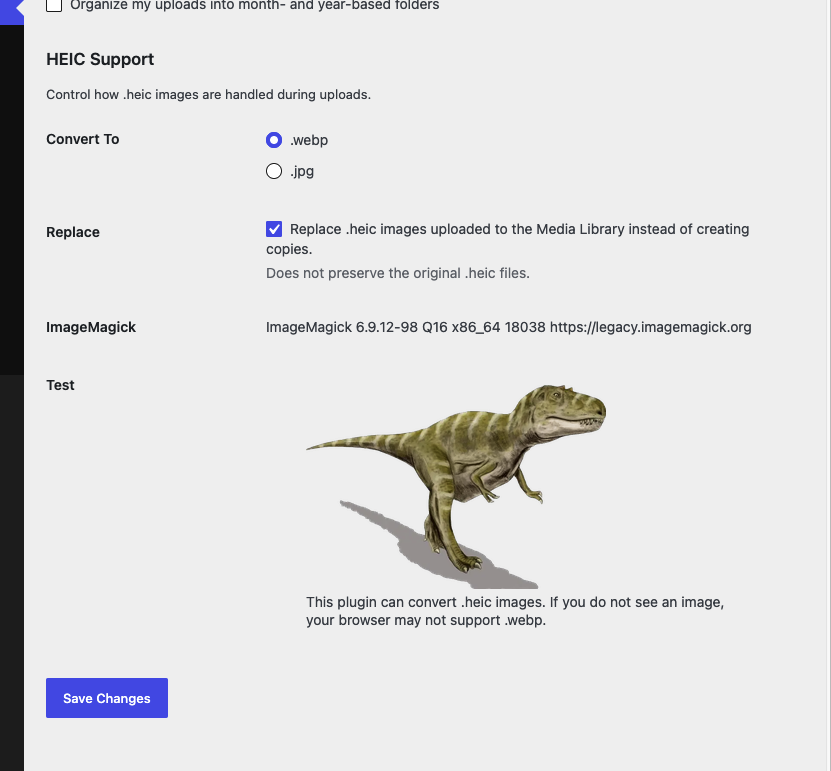
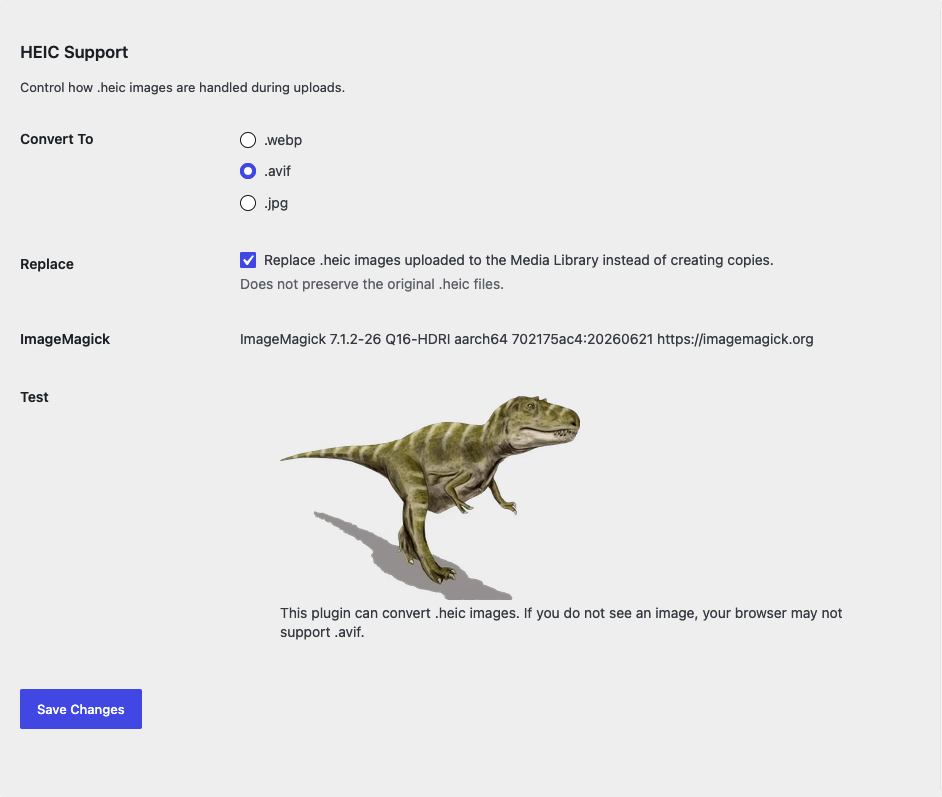
Updates screenshots

diff --git a/README.md b/README.md
@@ -27,6 +27,10 @@ The settings are located at Settings → Media → HEIC Support in the dashboard
 
 ![Screenshot-2](assets/screenshot-2.png)
 
+3. The Media Library list view filtered to HEIC / HEIF, with a row action and a bulk action to create copies.
+
+![Screenshot-3](assets/screenshot-3.png)
+
 ## Filters
 
 `heic_support_extension`
